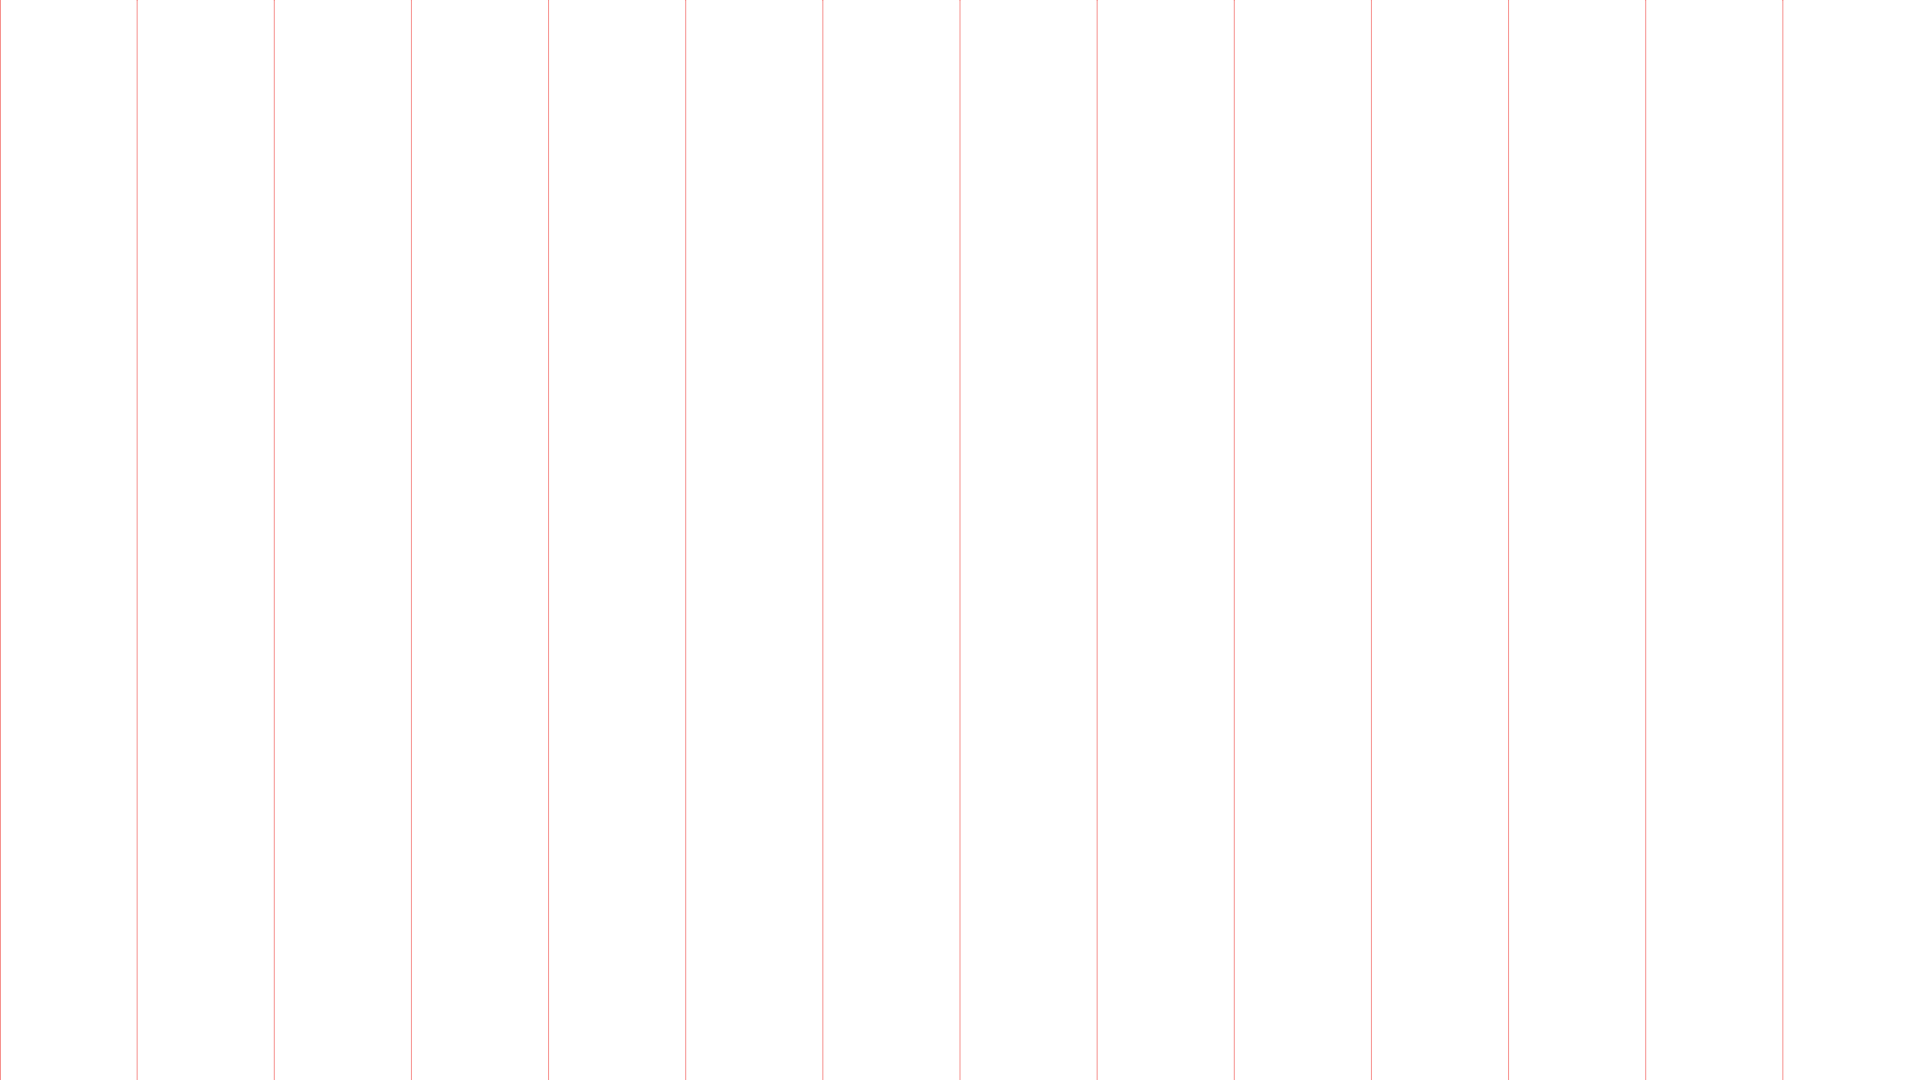
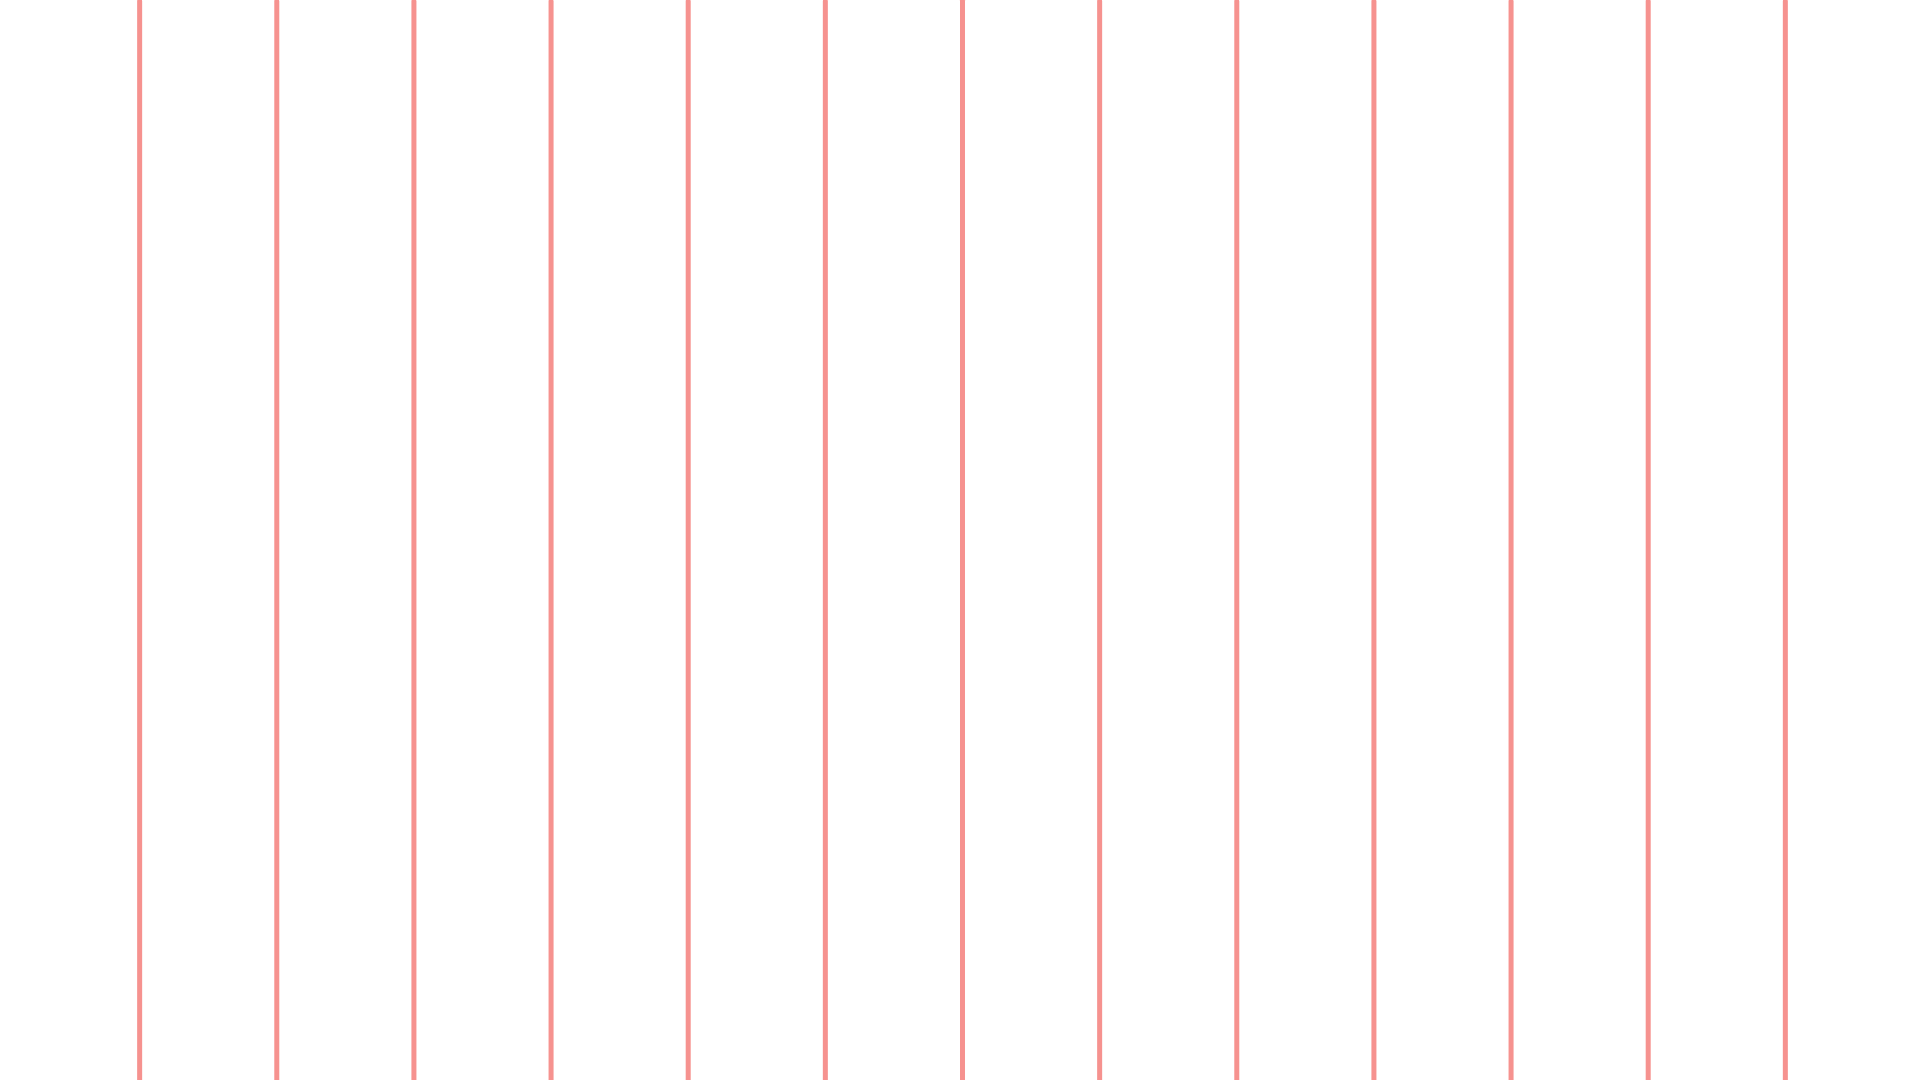
patch getEvent

diff --git a/generator.go b/generator.go
@@ -114,15 +114,17 @@ func getEvents(newFilename, calendarsFolder, startDate, endDate string) (string,
         line := scanner.Text()
         switch {
         case strings.HasPrefix(line, "DTSTART:"):
-            date := line[8:18] // Extract DTSTART date in YYYYMMDD format
+            date := line[8:18] // Extrait DTSTART date au format YYYYMMDD
             if date >= startDate && date <= endDate {
                 currentKey = date
+                currentEvent.DtStart = date // Ajoutez la date DTSTART à l'événement actuel
             }
         case strings.HasPrefix(line, "DTEND:") && currentKey != "":
-            date := line[6:16] // Extract DTEND date in YYYYMMDD format
+            date := line[6:16] // Extrait DTEND date au format YYYYMMDD
             currentKey += "-" + date
+            currentEvent.DtEnd = date // Ajoutez la date DTEND à l'événement actuel
 
-            // Add event to slice
+            // Ajoutez l'événement à la slice
             events = append(events, currentEvent)
         case currentKey != "":
             switch {
@@ -163,8 +165,9 @@ func CalendarGeneration(picturesFolder, newJSONname, mainColor, textColor, markC
     // Créer une image avec une taille spécifique (vous pouvez ajuster la taille selon vos besoins)
     const width = 1920
     const height = 1080
+    lineWidth := 5.0
     dc := gg.NewContext(width, height)
-
+    dc.SetLineWidth(lineWidth)
     // Définir les couleurs à partir des chaînes hexadécimales
     mainHexColor := parseHexColor(mainColor)
     textHexColor := parseHexColor(textColor)
@@ -177,8 +180,8 @@ func CalendarGeneration(picturesFolder, newJSONname, mainColor, textColor, markC
     fmt.Println(markHexColor)
     // Dessiner les barres horaires
     dc.SetColor(scdHexColor)
-    for i := 7; i <= 20; i++ {
-        x := float64(i-7) * width / 14
+    for i := 8; i <= 20; i++ {
+        x := float64(i-7) * width / 14 + lineWidth/2 
         dc.DrawLine(x, 0, x, height)
         dc.Stroke()
     }
